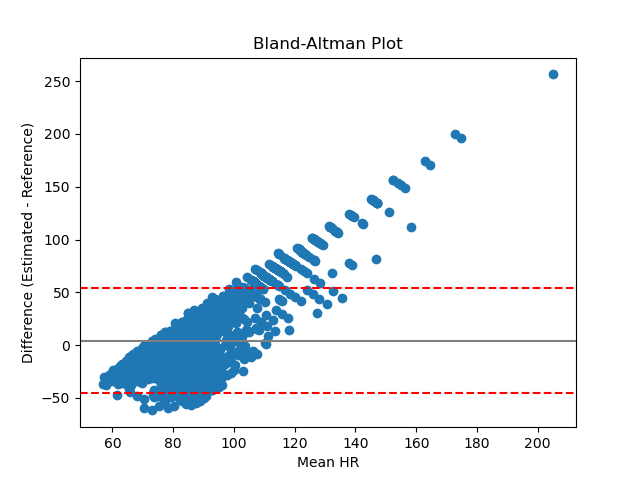
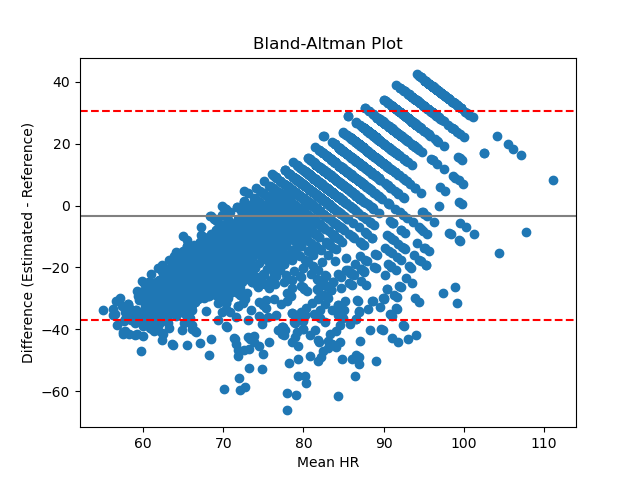
Update heart rate and respiratory rate metrics output; refine HR estimation process

diff --git a/src/main.py b/src/main.py
@@ -57,7 +57,8 @@ if file.endswith(".csv"):
         synced_bcg = data_stream[mask_bcg]
         synced_utc = utc_time[mask_bcg]
         synced_rr = rr_data.loc[mask_rr]
-        reference_hr = synced_rr['Heart Rate'].replace(0, np.nan).dropna().to_numpy()
+    
+        #reference_hr = synced_rr['Heart Rate'].replace(0, np.nan).dropna().to_numpy()
         
         # Resample BCG to 50Hz
         # n_samples_50hz = int((end_time - start_time) / 1000 * fs)
@@ -130,19 +131,25 @@ if file.endswith(".csv"):
 
 
         # Peak detection from filtered BCG
-        peaks = detect_peaks(wavelet_cycle)
+        peaks = detect_peaks(wavelet_cycle, mpd = fs_target//2)
         peak_times = clean_time[peaks] / 1000.0  # ms to seconds
         rr_intervals_sec = np.diff(peak_times)
         estimated_hr = 60.0 / rr_intervals_sec
 
-
         # Compute timestamps for estimated HR (at midpoints between peaks)
-        estimated_hr_times = peak_times[1:]  # aligns each HR value with the second peak
+        estimated_hr_times = peak_times[1:]
 
-        # Use raw RR values directly (only for plotting and comparison, not interpolation)
-        reference_hr = synced_rr['Heart Rate'].replace(0, np.nan).dropna().values
+        # Convert synced_utc[0] to seconds (to align with rr_times in UNIX seconds)
+        start_unix_sec = synced_utc[0] / 1000.0
+        estimated_hr_times = estimated_hr_times + start_unix_sec
 
-        # Truncate estimated HR to match length
+        # Interpolate reference HR to match estimated HR times
+        synced_rr = synced_rr.drop_duplicates(subset='Timestamp')
+        rr_times = synced_rr['Timestamp'].values / 1000.0
+        rr_values = synced_rr['Heart Rate'].replace(0, np.nan).interpolate().values
+        reference_hr = np.interp(estimated_hr_times, rr_times, rr_values)
+
+        # Align arrays
         min_len = min(len(reference_hr), len(estimated_hr))
         estimated_hr = estimated_hr[:min_len]
         reference_hr = reference_hr[:min_len]
@@ -223,8 +230,6 @@ if file.endswith(".csv"):
 
 
 
-                # Save
-
         # Save summary results to file
         summary_text = f"""Heart Rate Comparison Metrics
         MAE: {mae}
@@ -250,7 +255,7 @@ if file.endswith(".csv"):
         os.makedirs('results', exist_ok=True)
 
         # Write to file
-        with open('results/Output.py', 'w') as f:
+        with open('results/Output', 'w') as f:
             f.write(summary_text)
 
     print('\nEnd processing ...')
